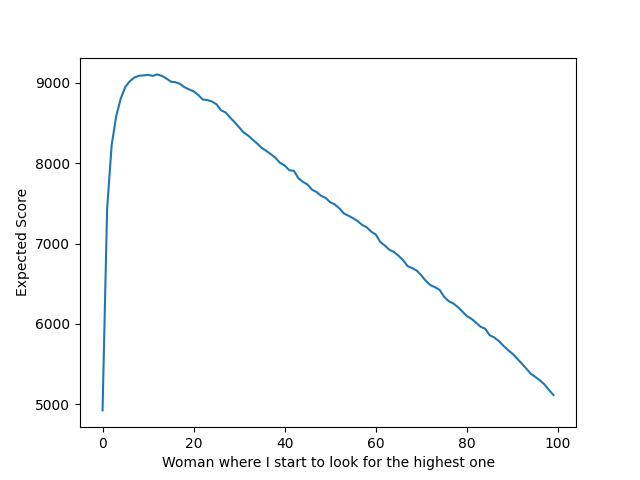
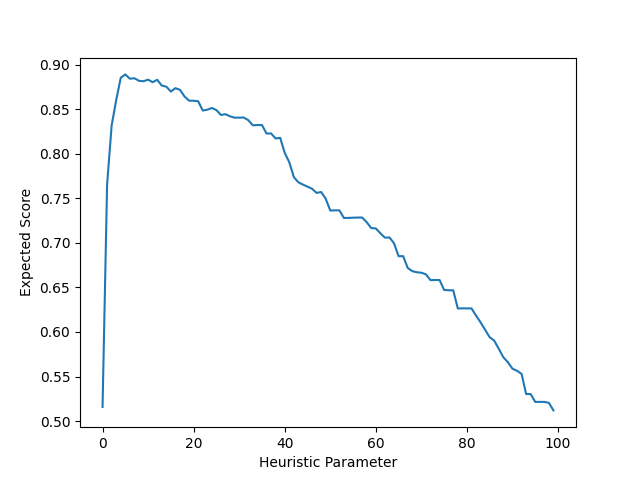
perf: :zap: remove if statement for performance

diff --git a/main.py b/main.py
@@ -5,39 +5,33 @@ from tqdm import tqdm
 
 def show_plot(x):
     # plot the data
-    plt.xlabel("Woman where I start to look for the highest one")
+    plt.xlabel("Heuristic Parameter")
     plt.ylabel("Expected Score")
     plt.plot(x)
 
     # # show the plot
     # plt.show()
 
-n_dates = 100
-max_score = 10000
-samples = 1000
+n = 100
+samples = 100
 
 def main():
     # generate a random numpy matrix of n x samples numbers between 0 and max_score
-    x = np.random.randint(0, max_score, (n_dates, samples))
+    x = np.random.uniform(size=(n, samples))
     y = np.zeros(x.shape)
 
     for s in tqdm(range(samples)):
-        for i in range(n_dates):
+        for i in range(n):
             # take the max of the first i dates
             nth_max = np.max(x[0:i+1, s])
 
-            # get the next best score
-            current = x[i, s]
+            # date until you get a better score than the first i dates
+            # take the last one if you didn't find a better score
+            for j in range(i, n):
+                current = x[j, s]
+                if current >= nth_max:
+                    break
 
-            # if the current score is not the maximum
-            if current != nth_max:
-                # date until you get a better score than the first i dates
-                # take the last one if you didn't find a better score
-                for j in range(i, n_dates):
-                    current = x[j, s]
-                    if x[j, s] > nth_max:
-                        break
-                    
             # set the result to the current score
             y[i, s] = current
 
